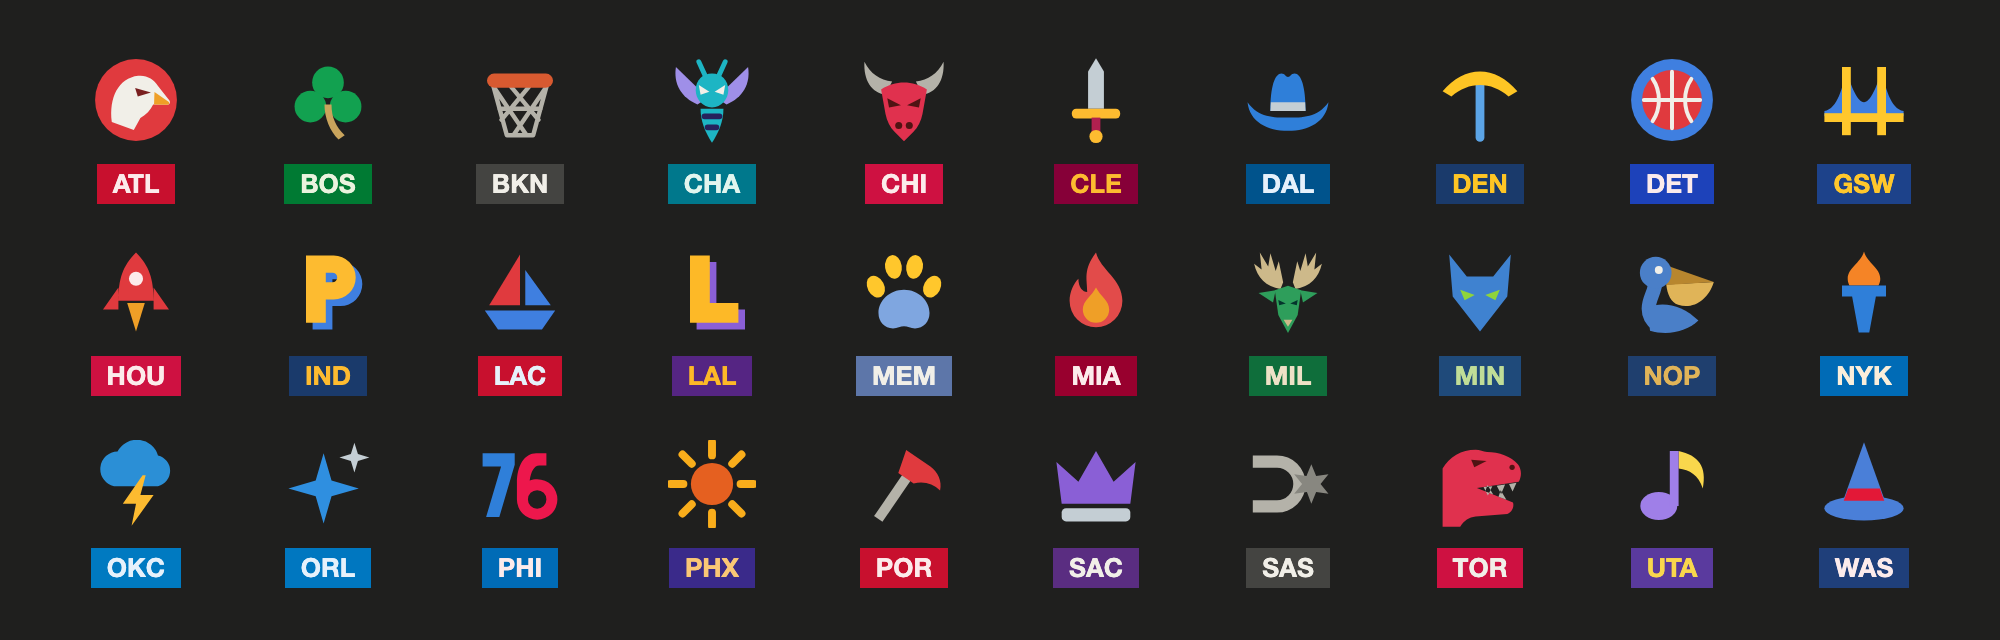
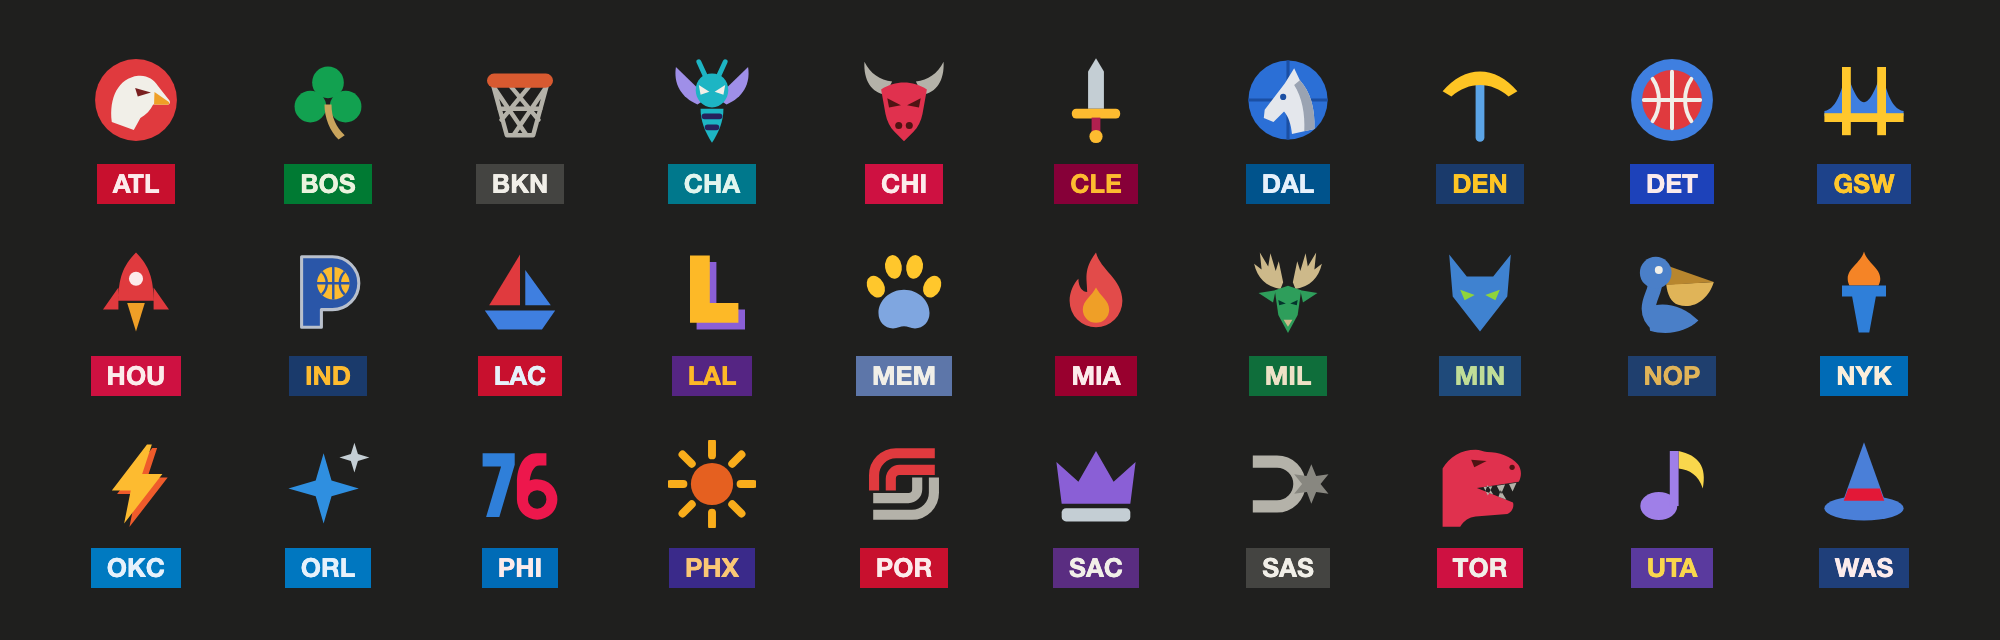
Redraw the Pacers, Thunder, Trail Blazers and Mavericks totems (v0.7.2)

diff --git a/mods/nba-scores-mod/hooks/totems.ts b/mods/nba-scores-mod/hooks/totems.ts
@@ -74,11 +74,11 @@ export const TOTEMS: Record<string, Totem> = {
     ),
   },
   DAL: {
-    alt: '牛仔帽',
+    alt: '籃球與馬頭',
     badgeBg: '#00538C',
     badgeFg: '#E6F1FB',
     svg: svg(
-      '<path d="M6 12.500c0-5.500 1-8.500 2.500-8.500c.8 0 1 .8 1.500.8s.7-.8 1.500-.8c1.500 0 2.500 3 2.500 8.500z" fill="#2F7FD9"/><path d="M0.800 10.500c2.500 3.500 6 3.500 9.200 3.500s6.700 0 9.200-3.500c-.5 4.500-4.500 6.500-9.200 6.500s-8.700-2-9.200-6.500z" fill="#2F7FD9"/><path d="M6.100 10.500h7.800l.1 2H6z" fill="#C4CED4"/>',
+      '<circle cx="10" cy="10" r="9" fill="#2B6FD6"/><path d="M10 1v18M1 10h18" fill="none" stroke="#1B4FA3" stroke-width="0.7"/><path d="M11.400 2.800L12.700 5.500C15 8 16.200 11.800 16 16.600L10.900 17.700C10.700 15.500 10.100 13.800 9.100 12.600L6.700 15L4.500 14.100L4.700 12.200L9.300 6.200z" fill="#E4E7EC"/><path d="M12.700 5.500C15 8 16.200 11.800 16 16.600l-2.300.5c.2-3.900-.5-7.700-2.300-10.500z" fill="#9AA3B2"/><circle cx="8.900" cy="9.300" r=".7" fill="#1B4FA3"/>',
     ),
   },
   DEN: {
@@ -114,11 +114,11 @@ export const TOTEMS: Record<string, Totem> = {
     ),
   },
   IND: {
-    alt: 'P',
+    alt: 'P 與籃球',
     badgeBg: '#1A3A6B',
     badgeFg: '#FDBB30',
     svg: svg(
-      '<path d="M5 1.700h6.300a5 5 0 0 1 0 10H9.500V17H5zM9.500 5.600v2.200h1.500a1.100 1.100 0 0 0 0-2.200z" transform="translate(1.5 1.5)" fill="#3F7FE0" fill-rule="evenodd"/><path d="M5 1.700h6.300a5 5 0 0 1 0 10H9.500V17H5zM9.500 5.600v2.200h1.500a1.100 1.100 0 0 0 0-2.200z" transform="translate(0 0)" fill="#FDBB30" fill-rule="evenodd"/>',
+      '<path d="M4 2h7a6 6 0 0 1 0 12H8.5v4H4z" fill="#2A56A8" stroke="#B9C0CC" stroke-width="0.7" stroke-linejoin="round"/><circle cx="11.2" cy="8" r="3.7" fill="#FDBB30"/><path d="M11.2 4.3v7.4M7.5 8h7.4M8.6 5.400c1.500 1.500 1.500 3.700 0 5.200M13.800 5.400c-1.500 1.500-1.500 3.700 0 5.200" fill="none" stroke="#2A56A8" stroke-width="0.55"/>',
     ),
   },
   LAC: {
@@ -190,7 +190,7 @@ export const TOTEMS: Record<string, Totem> = {
     badgeBg: '#007AC1',
     badgeFg: '#E6F1FB',
     svg: svg(
-      '<path d="M5 10.5a4 4 0 0 1 .8-7.9a5 5 0 0 1 9.2.9a3.6 3.6 0 0 1 0 7z" fill="#2B8FD6"/><path d="M11.5 8l-4.5 6.5h3l-1 5L14 12.5h-3l1.2-4.5z" fill="#FDBB30"/>',
+      '<path d="M12.5 1L4.5 11.5h4.3L7.3 19l8.7-11.3h-4.6L13.6 1z" transform="translate(1.2 0.8)" fill="#EF5B2B"/><path d="M12.5 1L4.5 11.5h4.3L7.3 19l8.7-11.3h-4.6L13.6 1z" fill="#FDBB30"/>',
     ),
   },
   ORL: {
@@ -218,11 +218,11 @@ export const TOTEMS: Record<string, Totem> = {
     ),
   },
   POR: {
-    alt: '開路斧',
+    alt: '兩道弧線',
     badgeBg: '#C8102E',
     badgeFg: '#FCEBEB',
     svg: svg(
-      '<path d="M3.200 17.300L12.300 4l1.900 1.300L5.100 18.600z" fill="#B4B2A9"/><path d="M10.500 2.300l5.500 3.700c1.700 1.200 2.700 3.300 2.200 5.500c-1.600-1.600-3.800-2.200-6-1.600L8.700 7.500z" fill="#E03A3E"/>',
+      '<g fill="none" stroke-width="2.3" stroke-linecap="butt"><path d="M3.2 11.5V8a5 5 0 0 1 5-5H17" stroke="#E03A3E"/><path d="M7 11.5V8.8a2 2 0 0 1 2-2H17" stroke="#E03A3E"/><path d="M16.8 8.5V12a5 5 0 0 1-5 5H3" stroke="#B4B2A9"/><path d="M13 8.5v2.700a2 2 0 0 1-2 2H3" stroke="#B4B2A9"/></g>',
     ),
   },
   SAC: {
